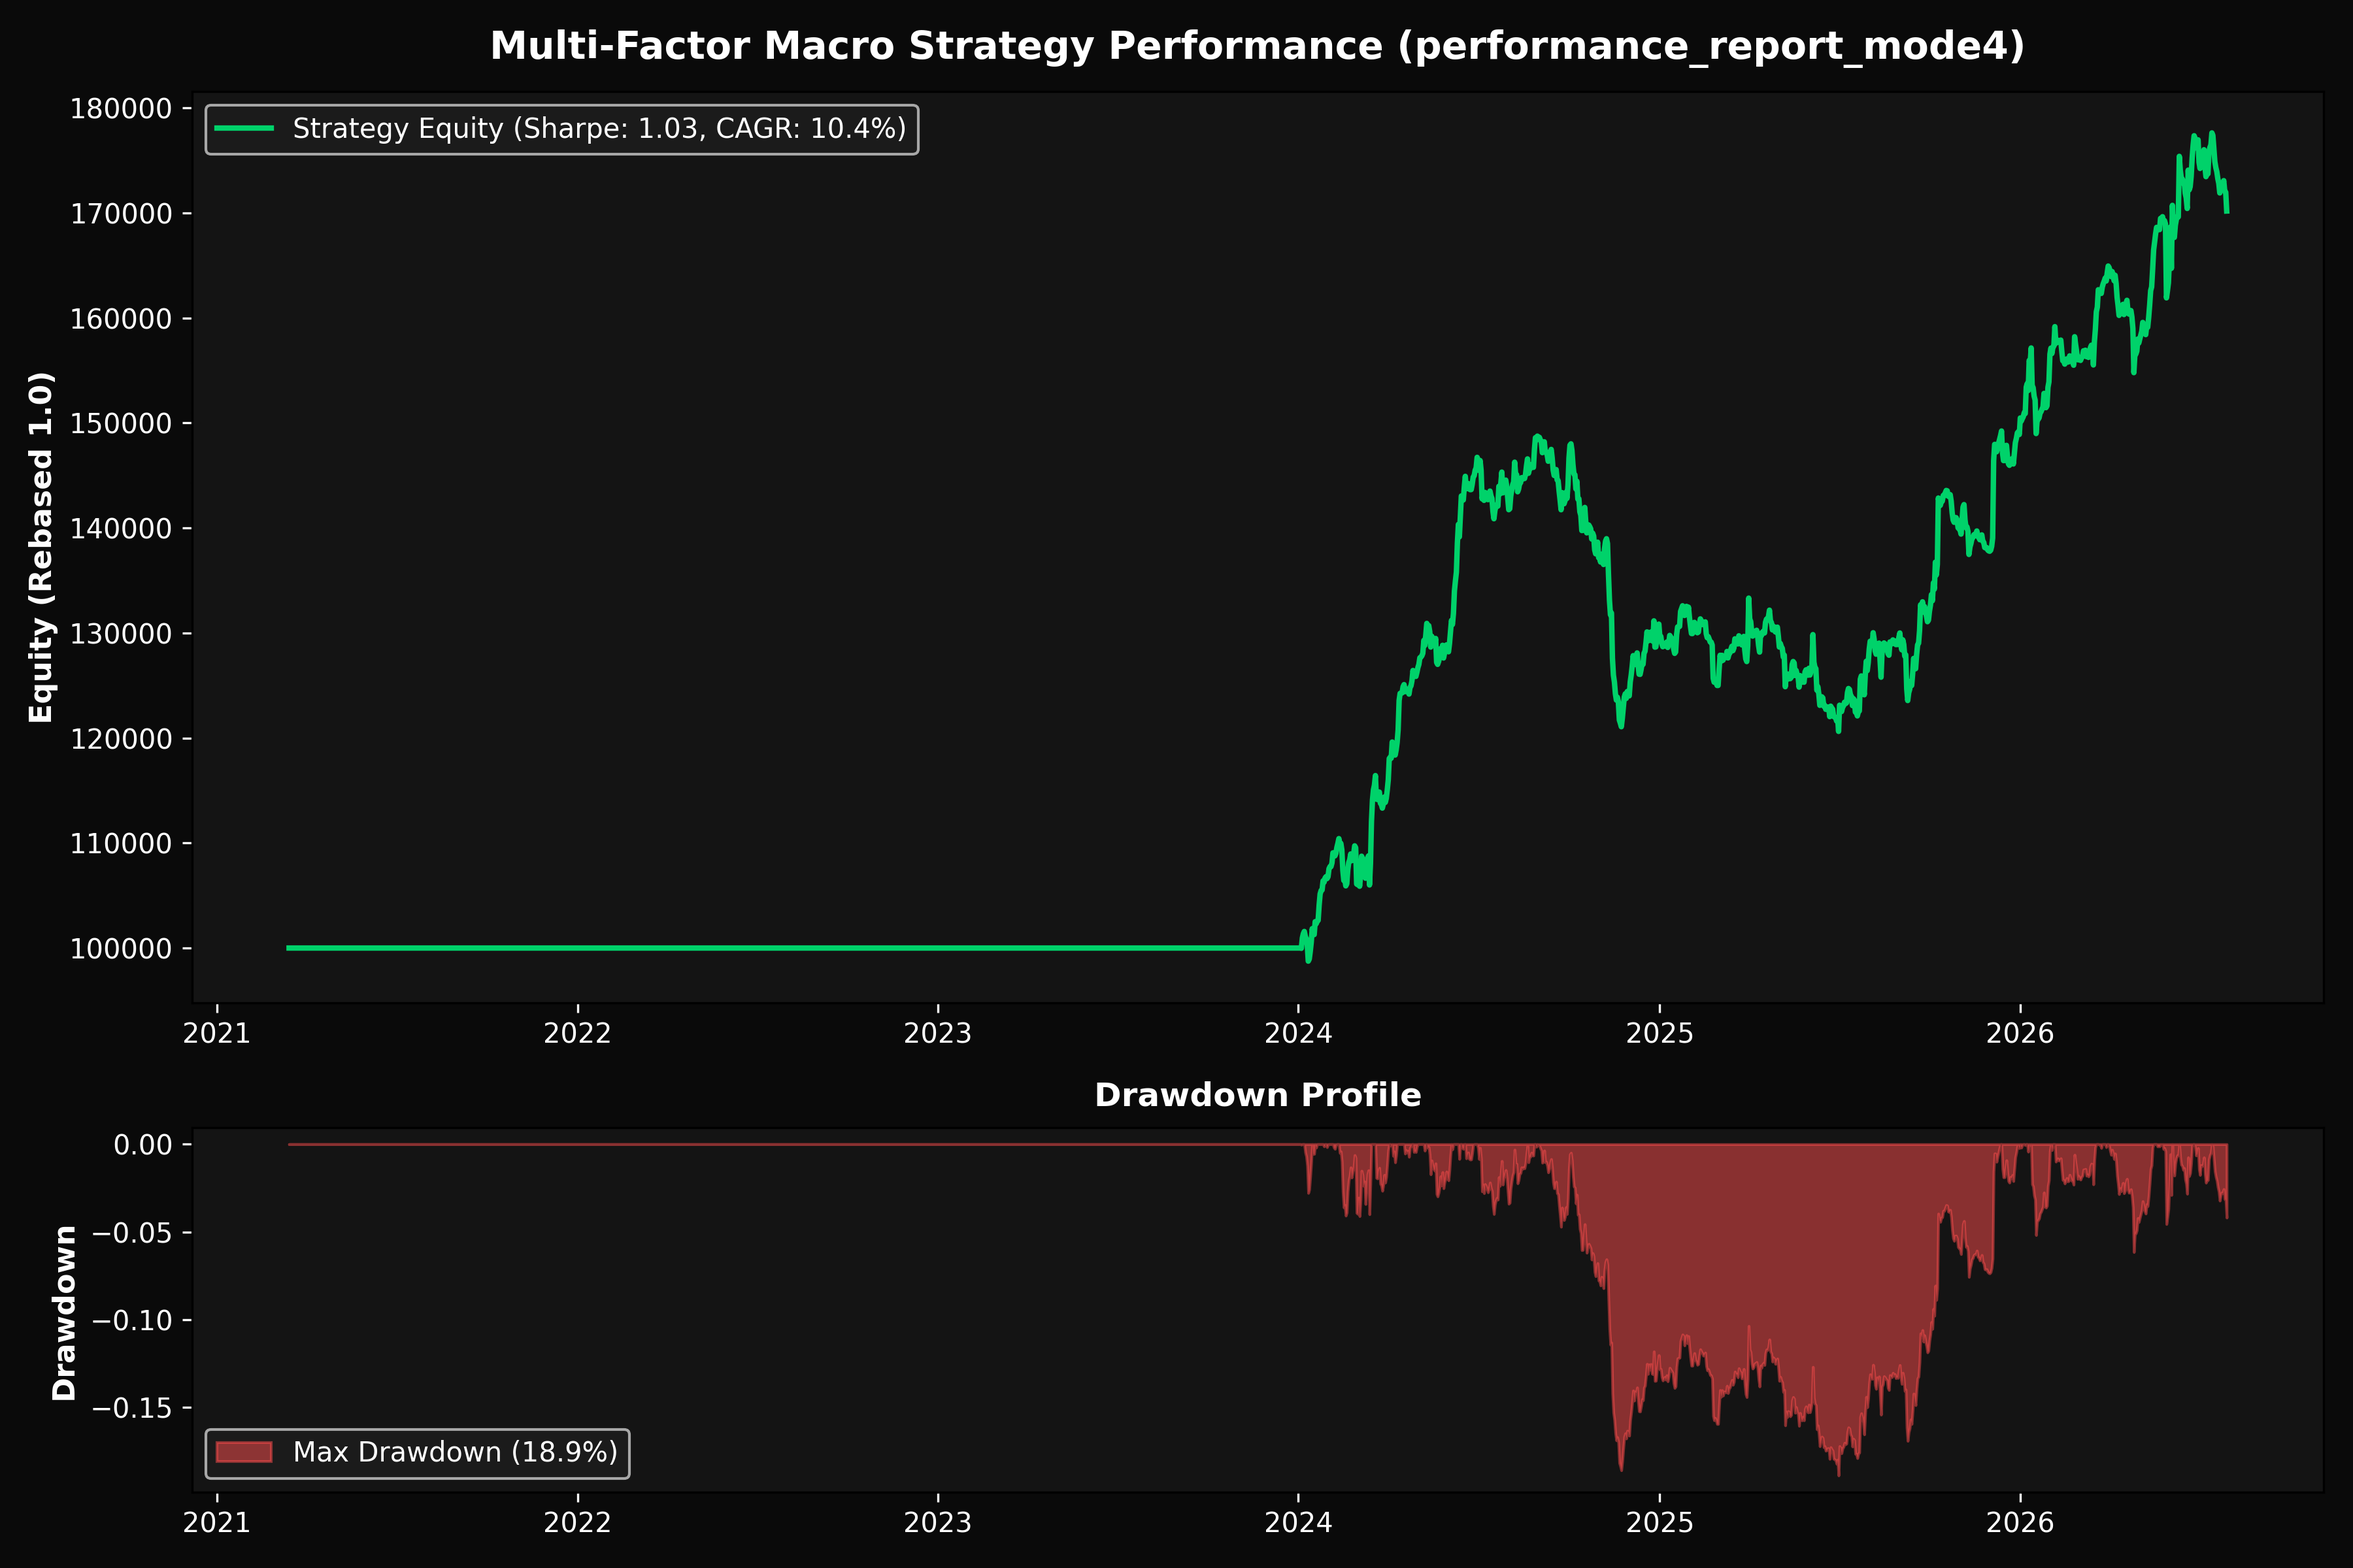
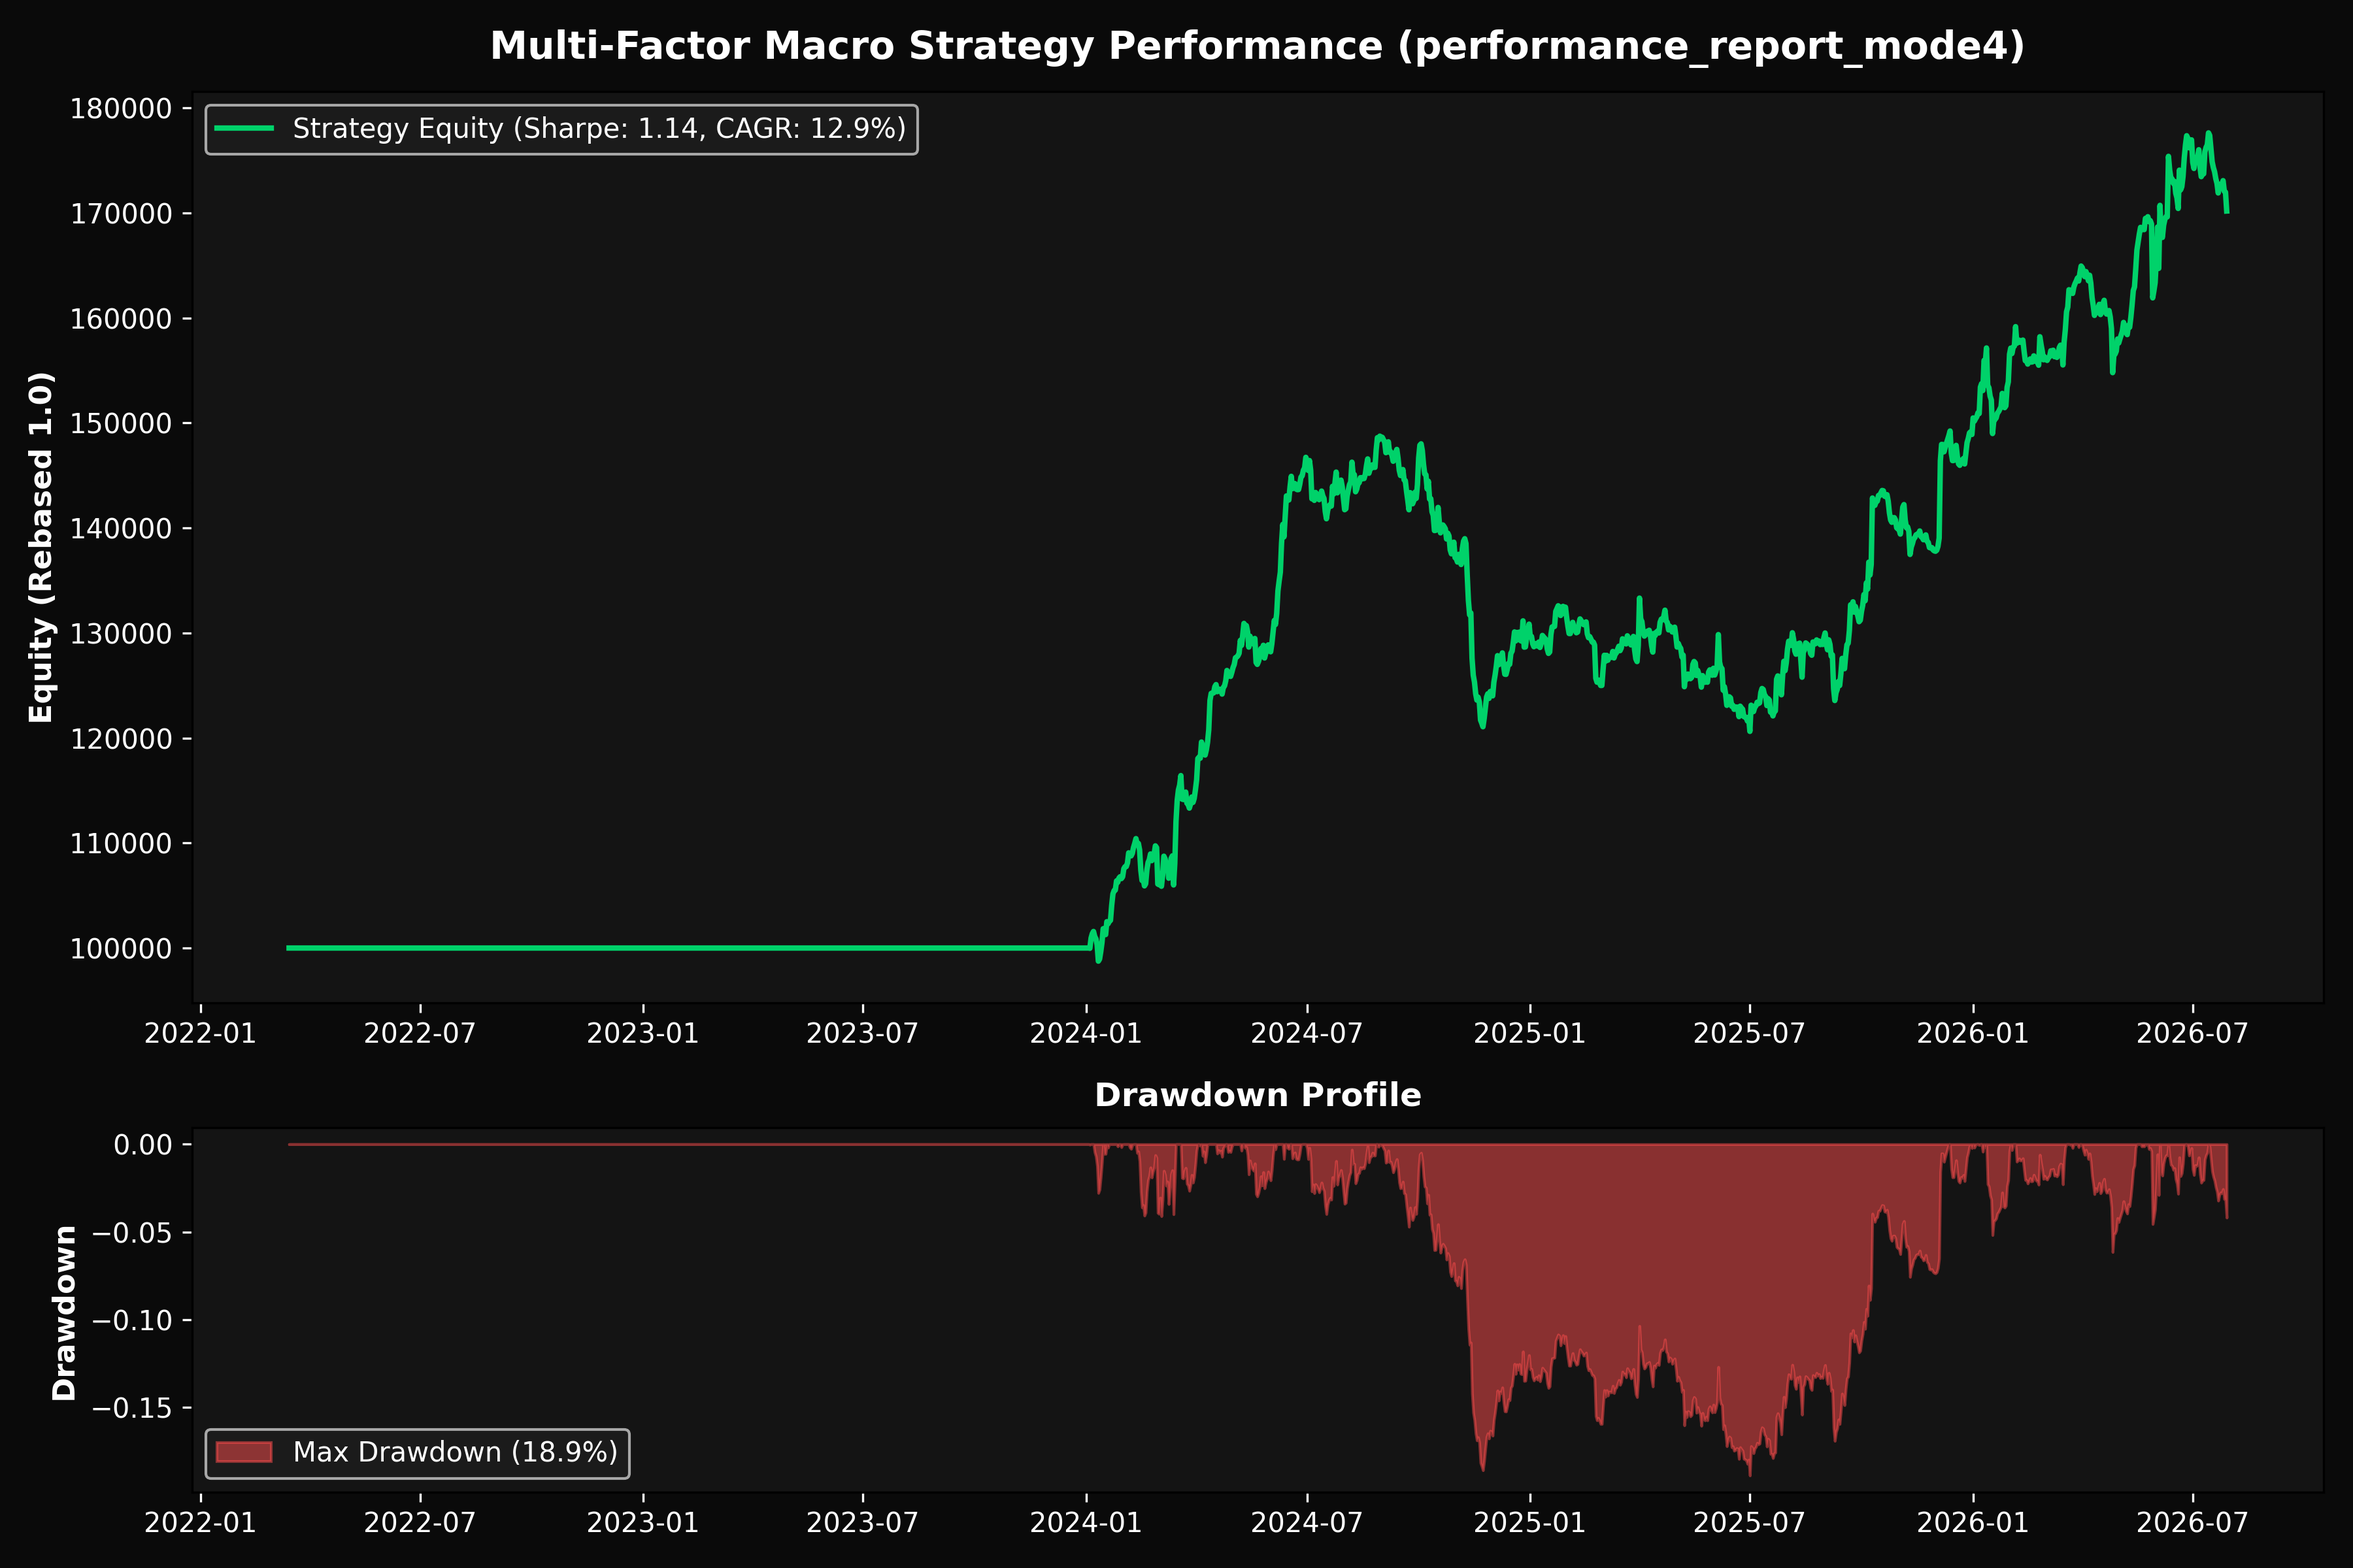
fix(metrics): enforce 365-day Crypto annualization standard across train.py reporting

diff --git a/multifactor_portfolio/training/train.py b/multifactor_portfolio/training/train.py
@@ -716,10 +716,18 @@ def run_strategy_backtest(
     
     metrics = calculate_performance_metrics(
         equity_df, 
-        trading_days_per_year=params.get('trading_days_per_year', 365)
+        trading_days_per_year=365.0
     )
+    crypto_sharpe = metrics.get('sharpe_ratio')
+    crypto_cagr = metrics.get('cagr', 0.0)
+    crypto_cagr_pct = round(crypto_cagr * 100.0, 2)
+
     if qbt_metrics_report:
         metrics.update(qbt_metrics_report)
+        
+    # Enforce Crypto 365-day annualization standard
+    metrics['sharpe_ratio'] = crypto_sharpe
+    metrics['cagr_pct'] = crypto_cagr_pct
     metrics.update(ml_metrics)
     
     print("=== ML MODEL EVALUATION METRICS ===")
